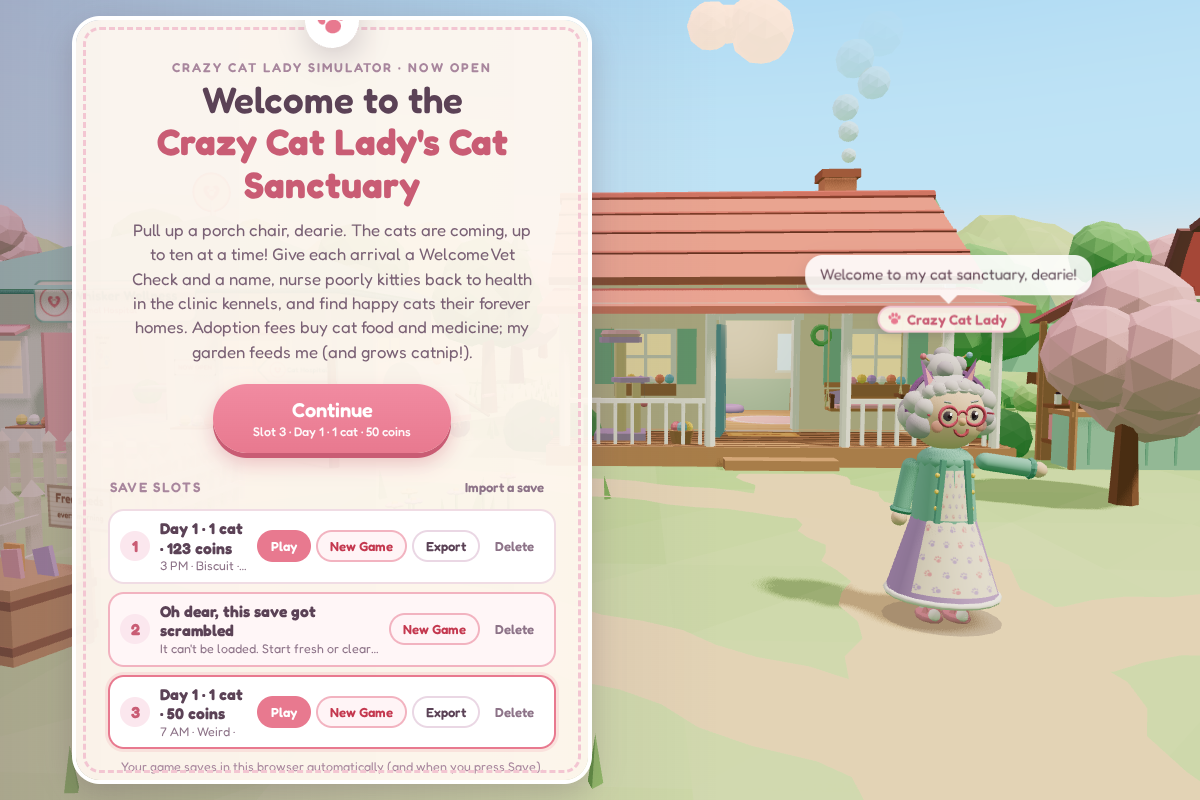
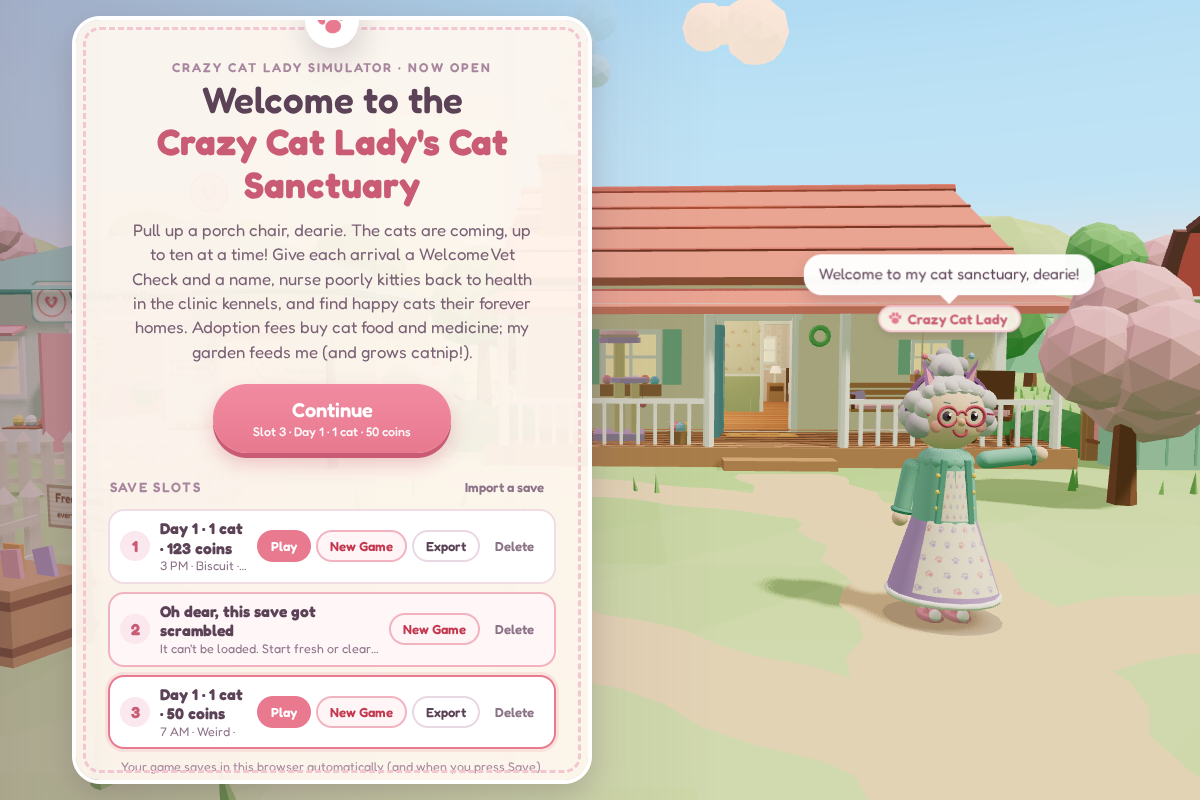
Cottage remodel: bedroom, bathroom, living room and country-grandma kitchen; height-aware wall fading; porch swing + save polish; screenshots 45-55

diff --git a/index.html b/index.html
@@ -2,7 +2,7 @@
 <html lang="en">
 <head>
   <meta charset="utf-8" />
-  <meta name="build" content="202611171629" />
+  <meta name="build" content="202611172254" />
   <meta name="viewport" content="width=device-width, initial-scale=1, maximum-scale=1, user-scalable=no" />
   <title>Crazy Cat Lady's Cat Sanctuary · Crazy Cat Lady Simulator</title>
   <meta name="description" content="Visit the Crazy Cat Lady's cozy 3D cat sanctuary, right in your browser. The first piece of the Crazy Cat Lady Simulator." />
@@ -10,40 +10,42 @@
   <link rel="preconnect" href="https://fonts.googleapis.com" />
   <link rel="preconnect" href="https://fonts.gstatic.com" crossorigin />
   <link href="https://fonts.googleapis.com/css2?family=Fredoka:wght@400;500;600;700&display=swap" rel="stylesheet" />
-  <link rel="stylesheet" href="css/style.css?v=202611171629" />
+  <link rel="stylesheet" href="css/style.css?v=202611172254" />
   <!-- Three.js is vendored locally (r187) so the site works anywhere, including GitHub Pages. -->
   <script type="importmap">
     {
       "imports": {
-        "three": "./vendor/three/three.module.js?v=202611171629",
-        "./vendor/three/three.core.js": "./vendor/three/three.core.js?v=202611171629",
-        "./js/adoption.js": "./js/adoption.js?v=202611171629",
-        "./js/building.js": "./js/building.js?v=202611171629",
-        "./js/catData.js": "./js/catData.js?v=202611171629",
-        "./js/catLady.js": "./js/catLady.js?v=202611171629",
-        "./js/catMenu.js": "./js/catMenu.js?v=202611171629",
-        "./js/catModel.js": "./js/catModel.js?v=202611171629",
-        "./js/cats.js": "./js/cats.js?v=202611171629",
-        "./js/catsHouse.js": "./js/catsHouse.js?v=202611171629",
-        "./js/clinic.js": "./js/clinic.js?v=202611171629",
-        "./js/collision.js": "./js/collision.js?v=202611171629",
-        "./js/controls.js": "./js/controls.js?v=202611171629",
-        "./js/game.js": "./js/game.js?v=202611171629",
-        "./js/garden.js": "./js/garden.js?v=202611171629",
-        "./js/host.js": "./js/host.js?v=202611171629",
-        "./js/journal.js": "./js/journal.js?v=202611171629",
-        "./js/kitchen.js": "./js/kitchen.js?v=202611171629",
-        "./js/main.js": "./js/main.js?v=202611171629",
-        "./js/particles.js": "./js/particles.js?v=202611171629",
-        "./js/shop.js": "./js/shop.js?v=202611171629",
-        "./js/sound.js": "./js/sound.js?v=202611171629",
-        "./js/state.js": "./js/state.js?v=202611171629",
-        "./js/statsCard.js": "./js/statsCard.js?v=202611171629",
-        "./js/time.js": "./js/time.js?v=202611171629",
-        "./js/ui.js": "./js/ui.js?v=202611171629",
-        "./js/util.js": "./js/util.js?v=202611171629",
-        "./js/vet.js": "./js/vet.js?v=202611171629",
-        "./js/world.js": "./js/world.js?v=202611171629"
+        "three": "./vendor/three/three.module.js?v=202611172254",
+        "./vendor/three/three.core.js": "./vendor/three/three.core.js?v=202611172254",
+        "./js/adoption.js": "./js/adoption.js?v=202611172254",
+        "./js/building.js": "./js/building.js?v=202611172254",
+        "./js/catData.js": "./js/catData.js?v=202611172254",
+        "./js/catLady.js": "./js/catLady.js?v=202611172254",
+        "./js/catMenu.js": "./js/catMenu.js?v=202611172254",
+        "./js/catModel.js": "./js/catModel.js?v=202611172254",
+        "./js/cats.js": "./js/cats.js?v=202611172254",
+        "./js/catsHouse.js": "./js/catsHouse.js?v=202611172254",
+        "./js/clinic.js": "./js/clinic.js?v=202611172254",
+        "./js/collision.js": "./js/collision.js?v=202611172254",
+        "./js/controls.js": "./js/controls.js?v=202611172254",
+        "./js/game.js": "./js/game.js?v=202611172254",
+        "./js/garden.js": "./js/garden.js?v=202611172254",
+        "./js/host.js": "./js/host.js?v=202611172254",
+        "./js/journal.js": "./js/journal.js?v=202611172254",
+        "./js/kitchen.js": "./js/kitchen.js?v=202611172254",
+        "./js/main.js": "./js/main.js?v=202611172254",
+        "./js/particles.js": "./js/particles.js?v=202611172254",
+        "./js/saves.js": "./js/saves.js?v=202611172254",
+        "./js/shop.js": "./js/shop.js?v=202611172254",
+        "./js/sound.js": "./js/sound.js?v=202611172254",
+        "./js/startScreen.js": "./js/startScreen.js?v=202611172254",
+        "./js/state.js": "./js/state.js?v=202611172254",
+        "./js/statsCard.js": "./js/statsCard.js?v=202611172254",
+        "./js/time.js": "./js/time.js?v=202611172254",
+        "./js/ui.js": "./js/ui.js?v=202611172254",
+        "./js/util.js": "./js/util.js?v=202611172254",
+        "./js/vet.js": "./js/vet.js?v=202611172254",
+        "./js/world.js": "./js/world.js?v=202611172254"
       }
     }
   </script>
@@ -113,6 +115,6 @@
 
   <div id="loading">Tidying up the farm...</div>
 
-  <script type="module" src="js/main.js?v=202611171629"></script>
+  <script type="module" src="js/main.js?v=202611172254"></script>
 </body>
 </html>

diff --git a/js/kitchen.js b/js/kitchen.js
@@ -615,6 +615,7 @@ export function buildCottageInterior(house, { HX, HZ, W, D, H, T, FLOOR, walls }
   };
 
   // interior walls between the camera and her fade away (so you can always see her)
+  let camY = 0, headY = 0, wallTop = 0;
   const cam2 = new THREE.Vector2(), lady2 = new THREE.Vector2(), dir = new THREE.Vector2(), q = new THREE.Vector2();
   /** Is any part of this wall inside the "corridor" between the camera and her (about 4 m wide)? */
   const blocksView = (pt) => {
@@ -623,13 +624,17 @@ export function buildCottageInterior(house, { HX, HZ, W, D, H, T, FLOOR, walls }
     for (let i = 0; i <= n; i++) {
       q.copy(pt.a).lerp(pt.b, i / n).sub(cam2);
       const along = q.dot(dir), across = Math.abs(q.x * dir.y - q.y * dir.x);
-      if (along > -0.5 && along < L - 0.25 && across < 2.0 + along * 0.15) return true;
+      if (along > -0.5 && along < L - 0.25 && across < 1.5 + along * 0.12) {
+        // only if the sight line (camera -> her head) actually dips below the top of this wall here
+        const h = camY + (headY - camY) * Math.max(0, along) / L;
+        if (h < wallTop + 0.15) return true;
+      }
     }
     return false;
   };
   function fadePartitions(dt, ladyPos, camera, inside) {
     const k = Math.min(1, dt * 7);
-    if (camera && ladyPos) { cam2.set(camera.position.x, camera.position.z); lady2.set(ladyPos.x, ladyPos.z); }
+    if (camera && ladyPos) { cam2.set(camera.position.x, camera.position.z); lady2.set(ladyPos.x, ladyPos.z); camY = camera.position.y; headY = ladyPos.y + 1.3; wallTop = ladyPos.y + H; }
     for (const pt of partitions) {
       let target = 1;
       if (inside && camera && blocksView(pt)) target = 0.1;

diff --git a/css/style.css b/css/style.css
@@ -422,7 +422,7 @@ body.exam-open #sleep-btn { display: none !important; }
 }
 
 /* ---------- Saving: toast, start-screen slots, dialogs ---------- */
-#save-toast { position: fixed; left: 50%; top: 64px; transform: translateX(-50%); z-index: 16; white-space: nowrap; display: flex; align-items: center; gap: 8px; pointer-events: none;
+#save-toast { position: fixed; left: 50%; top: 78px; transform: translateX(-50%); z-index: 16; white-space: nowrap; display: flex; align-items: center; gap: 8px; pointer-events: none;
   background: rgba(255, 255, 255, 0.96); border: 3px solid #bfe6d7; border-radius: 999px; padding: 7px 16px 7px 10px; font-weight: 600; font-size: 0.98rem;
   color: var(--ink); box-shadow: 0 6px 18px rgba(91, 66, 86, 0.2); animation: saveIn 0.35s ease-out; }
 #save-toast.mini { padding: 3px 10px 3px 7px; font-size: 0.76rem; font-weight: 500; border-width: 2px; opacity: 0.85; }
